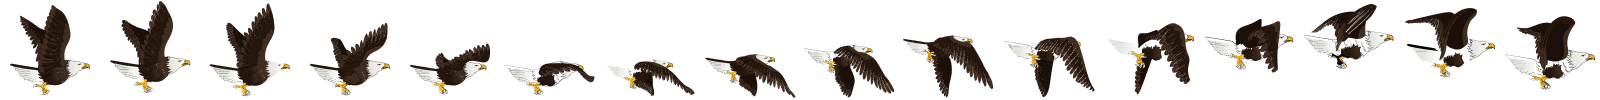
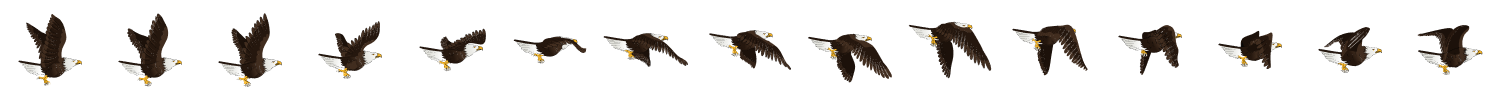
eagle and clouds fixed, will add dragon fire now

Changed region(s): [[0.0, 0.03, 1.0, 0.96], [0.2147, 0.9, 0.2453, 0.96], [0.1533, 0.9, 0.184, 0.96]]

diff --git a/Game.cpp b/Game.cpp
@@ -298,14 +298,15 @@ int Game::handleLevelTwoChanges() {
 		Middleware::animate(bird_list);
 	}
 
-	if (Middleware::nSpeedCount % 10 == 0) {
 
+	if (Middleware::nSpeedCount % 10 == 0) {
 		bool animation_complete = archer->animate();
-		if (animation_complete && bow_count > 0 && archer->getState() == "shootright" || archer->getState() == "shootleft") {
+		if (animation_complete && (archer->getState() == "shootright" || archer->getState() == "shootleft")) {
 			egg_list.insert(egg_list.begin(), bow);
 			archer->setState("still");
 		}
 	}
+
 
 
 	//--------------------------------insert-----------------------------------------
@@ -383,7 +384,7 @@ int Game ::handleLevelOneChanges() {
 	if (Middleware::nSpeedCount % 10 == 0) {
 
 			bool animation_complete = archer->animate();
-			if (animation_complete && bow_count > 0 && archer->getState() == "shootright" || archer->getState()=="shootleft") {
+			if (animation_complete && (archer->getState() == "shootright" || archer->getState() == "shootleft")) {
 				egg_list.insert(egg_list.begin(), bow);
 				archer->setState("still");
 			}

diff --git a/Archer.cpp b/Archer.cpp
@@ -37,21 +37,21 @@ void Archer::setState(string state)
 	}
 	if (state == "movingleft") {
 		flip = SDL_FLIP_HORIZONTAL;
-		src_rect.x = 720;
+		src_rect.x = 6 * width;
 	}
 	if (state == "movingright") {
 		flip = SDL_FLIP_NONE;
-		src_rect.x = 720;
+		src_rect.x = 6 * width;
 	}
 	if (state == "dead") {
-		src_rect.x = 3120;
+		src_rect.x = 26 * width;
 	}
 	if (state == "shootright") {
 		flip = SDL_FLIP_NONE;
-		src_rect.x = 2400;
+		src_rect.x = 20  *width;
 	}
 	if (state == "shootleft") {
-		src_rect.x = 2400;
+		src_rect.x = 20 * width;
 		flip = SDL_FLIP_HORIZONTAL;
 	}
 	this->state = state;

diff --git a/Middleware.h b/Middleware.h
@@ -9,8 +9,8 @@ public:
 	Middleware();
 	static const int SCREEN_WIDTH = 900;
 	static const int SCREEN_HEIGHT = 700;
-	static const int LEVEL_ONE_BOSS_SCORE = 100;
-	static const int LEVEL_TWO_BOSS_SCORE = 500;
+	static const int LEVEL_ONE_BOSS_SCORE = 500;
+	static const int LEVEL_TWO_BOSS_SCORE = 2000;
 	static SDL_Renderer* renderer;
 	static int nSpeedCount;
 	static SDL_Texture* LoadTexture(const char* filename);

diff --git a/Cloud.cpp b/Cloud.cpp
@@ -8,6 +8,12 @@ using namespace std;
 
 Cloud::Cloud(SDL_Texture* texture, double x, double y) :GameObject(texture, x, y) {
 	name = "cloud";
+	width = 150;
+	height = 150;
+	int randomCloudSelection = rand() % 8;
+	src_rect = { randomCloudSelection*width,0,width,height };
+	dst_rect = { int(x),int(y),width,height };
+	
 }
 
 

diff --git a/DragonFire.cpp b/DragonFire.cpp
@@ -1,0 +1,16 @@
+#include "DragonFire.h"
+#include "Bird.h"
+#include <sstream>
+#include <iostream>
+#include "Middleware.h"
+
+using namespace std;
+
+
+DragonFire::DragonFire(SDL_Texture* texture, double x, double y) :Egg(texture, x, y) {
+	name = "dragon_fire";
+}
+
+bool DragonFire::animate() {
+	return false;
+}

diff --git a/DragonFire.h b/DragonFire.h
@@ -1,0 +1,14 @@
+#pragma once
+#include "Middleware.h"
+#include "GameObject.h"
+#include <SDL.h>
+#include<iostream>
+#include <stdio.h>
+#include "Egg.h"
+
+class DragonFire : public Egg {
+public:
+	DragonFire(SDL_Texture* texture, double x, double y);
+	bool animate();
+};
+

diff --git a/Eagle.cpp b/Eagle.cpp
@@ -53,7 +53,7 @@ void Eagle::move() {
 
 bool Eagle::animate(){
 
-		if (src_rect.x >= 15 * width) {
+		if (src_rect.x >= 14 * width) {
 			src_rect.x = 0;
 		}
 		else {
